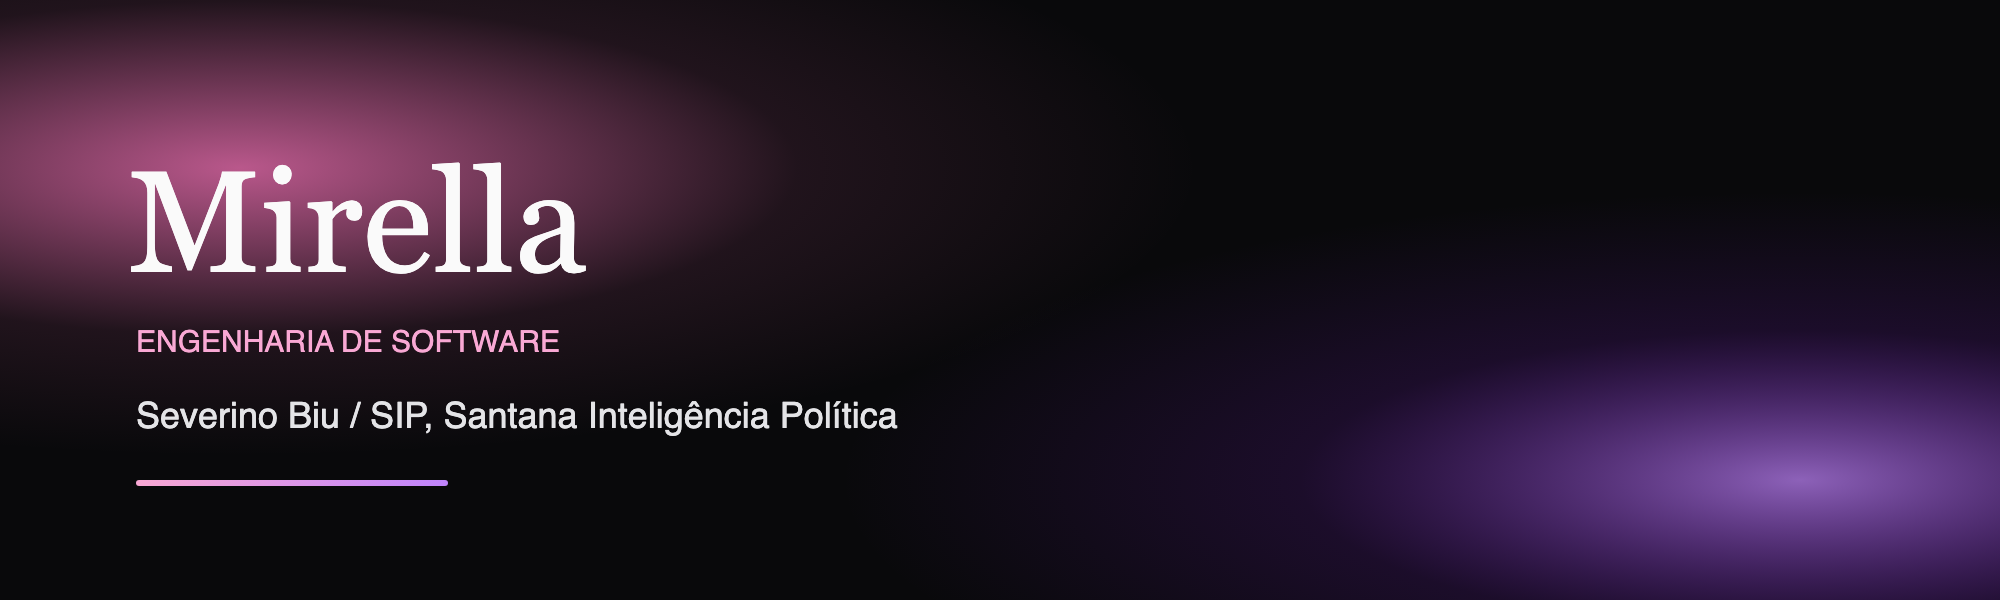
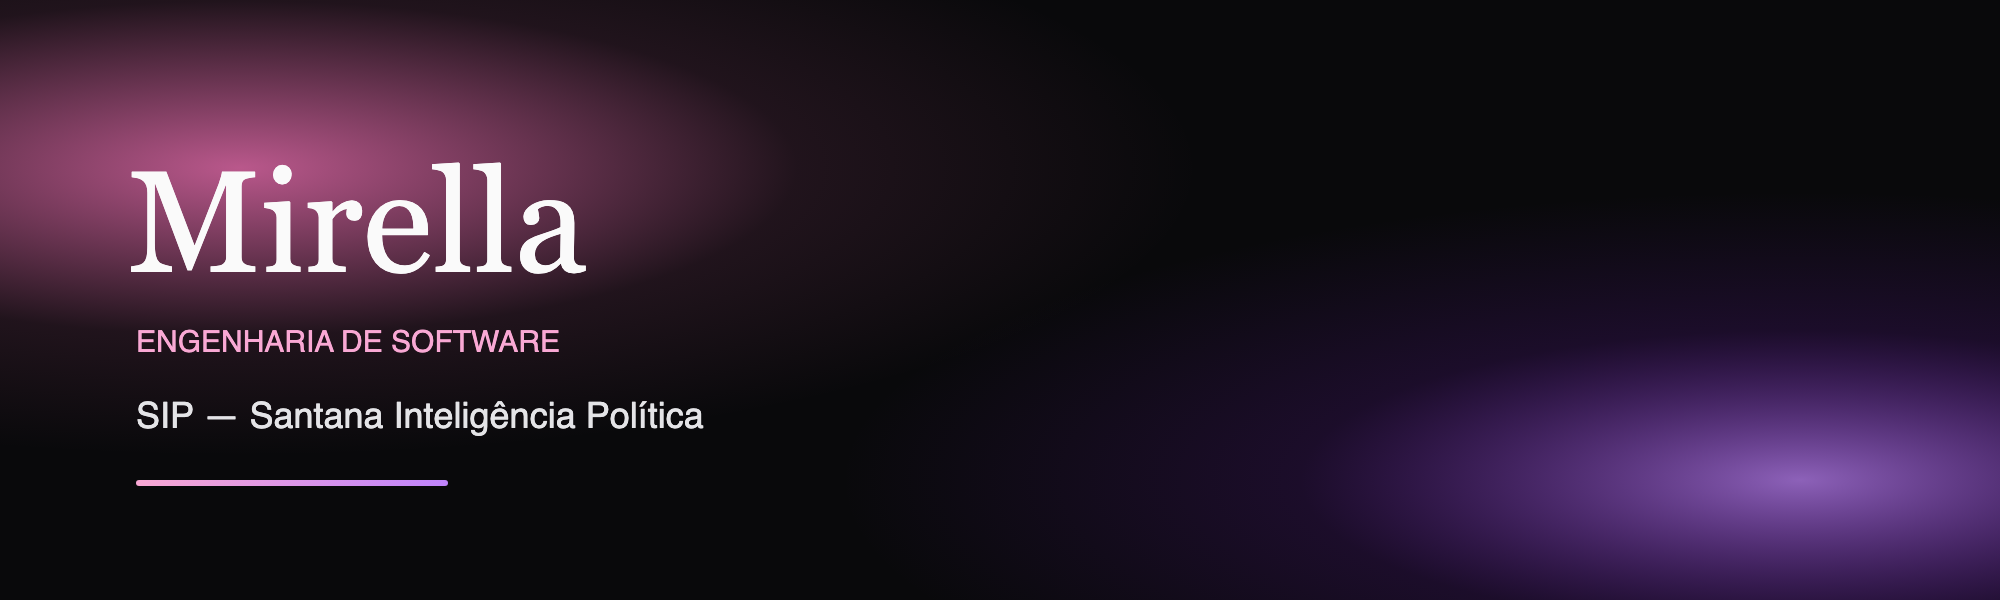
Atualiza o perfil: SIP no presente e Severino Biu até outubro de 2026.

Changed region(s): [[0.062, 0.66, 0.465, 0.72]]

diff --git a/README.md b/README.md
@@ -1,9 +1,9 @@
 <p align="center">
-  <img src="header.png" alt="Mirella. Engenharia de software. Severino Biu, SIP — Santana Inteligência Política." width="100%" />
+  <img src="header.png" alt="Mirella. Engenharia de software. SIP — Santana Inteligência Política." width="100%" />
 </p>
 
 <p align="center">
-  <img src="https://readme-typing-svg.demolab.com?font=IBM+Plex+Sans&weight=500&size=22&duration=2600&pause=800&color=A21CAF&center=true&vCenter=true&width=680&height=46&lines=Cria%C3%A7%C3%A3o+de+aplica%C3%A7%C3%B5es+web;UX%2FUI;Banco+de+dados;Automa%C3%A7%C3%B5es+e+ferramentas" alt="Criação de aplicações web, UX/UI, banco de dados, automações e ferramentas." />
+  <img src="https://readme-typing-svg.demolab.com?font=IBM+Plex+Sans&weight=500&size=22&duration=2600&pause=800&color=A21CAF&center=true&vCenter=true&width=720&height=46&lines=Interfaces+e+UI%2FUX;Ferramentas+e+automa%C3%A7%C3%B5es;Decis%C3%A3o+no+produto;Ferramentas+com+intelig%C3%AAncia+artificial" alt="Interfaces e UI/UX, ferramentas e automações, decisão no produto, ferramentas com inteligência artificial." />
 </p>
 
 <p align="center">
@@ -20,20 +20,21 @@
 <p align="center">
   4º período de Ciência da Computação na UFCG · monitoria ativa de Lógica de Programação
   <br />
+  <a href="https://www.santanainteligencia.com.br/"><img src="https://img.shields.io/badge/SIP-09090b?style=for-the-badge&logoColor=f9a8d4" alt="Site da SIP — Santana Inteligência Política" /></a>
   <a href="https://www.linkedin.com/in/mirella-ferreira-oliveira-b273b52b8/"><img src="https://img.shields.io/badge/LinkedIn-09090b?style=for-the-badge&logo=linkedin&logoColor=f9a8d4" alt="LinkedIn de Mirella Ferreira Oliveira" /></a>
 </p>
 
-No último ano entrei como estagiária de engenharia de software na **Severino Biu** e passei a construir e assessorar o **SIP — Santana Inteligência Política**. Conduzo frentes de produto e decido, nelas, o que a tela mostra, como o número é contado e quando um fluxo pode ser concluído.
+Comecei na **Severino Biu**, onde fiquei até outubro de 2026. Hoje sigo apenas na [**SIP — Santana Inteligência Política**](https://www.santanainteligencia.com.br/). Criei do zero alguns sites e algumas ferramentas, entre elas uma que o time passou a usar no dia a dia. No restante, entrei em partes do que já existia.
 
 <p align="center">
-  <img src="frentes.png" alt="Três frentes: Interfaces, Construção e Critério. Páginas e fluxos. Ferramentas e automações para o uso diário. O que entra, como se mede e quando se conclui." width="100%" />
+  <img src="frentes.png" alt="Três frentes: Interfaces, com páginas, fluxos e a leitura de quem usa. Construção de ferramentas e automações para o uso diário. Critério: o que entra, como se mede e quando se conclui." width="100%" />
 </p>
 
-A interface, o banco e a automação andam juntos: PostgreSQL, UX no celular e ferramentas feitas para o uso diário.
+Como aluna de Ciência da Computação, comecei a trabalhar com ferramentas que usam inteligência artificial. A saída passa por revisão humana antes de ser tratada como concluída.
 
 Técnica em Edificações pelo IFPB. Medalha de ouro na MOBFOG, 43ª Jornada de Foguetes, e Cientista Mirim Honorária pelo projeto Caravana Espacial.
 
-Os números abaixo contam só o que este GitHub deixa público. O ano no SIP está em repositório privado. `dio-java-basico` e `dio-lab-open-source` são exercícios de curso.
+Os números abaixo contam só o que este GitHub deixa público. O ano na SIP está em repositório privado. `dio-java-basico` e `dio-lab-open-source` são exercícios de curso.
 
 <p align="center">
   <img src="https://github-readme-stats.vercel.app/api?username=mirella-17&show_icons=true&hide_border=true&bg_color=09090b&title_color=f9a8d4&text_color=fafafa&icon_color=c084fc&border_radius=16&custom_title=reposit%C3%B3rios%20p%C3%BAblicos" alt="Estatísticas públicas do GitHub de mirella-17" />
